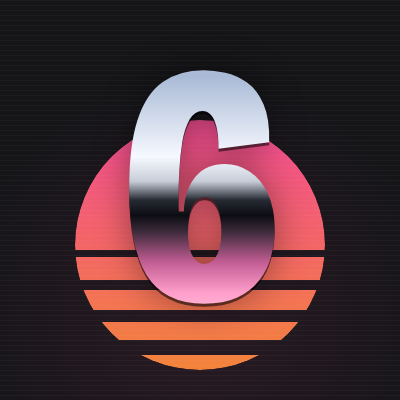
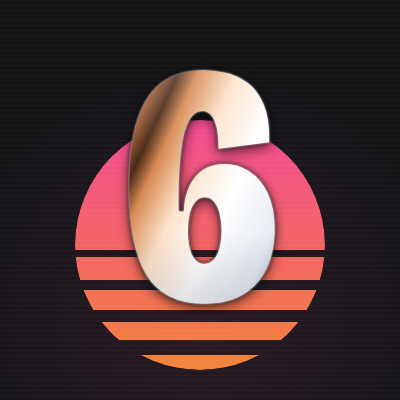
auditor: liquid chrome text (blue and copper reflections)
- Diagonal reflective streaks instead of the dark horizon band, easier to read
- Reflections drift slowly, follow scroll, and follow the pointer on hover
- Glint sweep kept; everything stops for reduced-motion users
- Brand images updated to match

Claude-Session: https://claude.ai/code/session_01UR4vkfQZzNAyaszMML9NGR

Changed region(s): [[0.3, 0.15, 0.72, 0.78]]

diff --git a/index.html b/index.html
@@ -27,12 +27,14 @@
   --pink:#ff4f9a;--orange:#ff8a3c;
   --sun:linear-gradient(100deg,#ff4f9a 0%,#ff6a6a 50%,#ff8a3c 100%);
   --chrome:linear-gradient(180deg,#ffffff 0%,#e3e5ea 28%,#9ba0ab 47%,#4a4e57 53%,#b9bdc6 68%,#f5f6f8 100%);
-  --chrome-hi:linear-gradient(180deg,#ffffff 0%,#eef3ff 12%,#a9bad6 30%,#f6f9ff 43%,#c7cdd8 47%,#262a33 50%,#0c0d12 52.5%,#3b2a3a 55%,#c25d93 60%,#ff9fcb 65%,#ffe3ef 74%,#ffffff 82%,#d9dde6 90%,#8e95a3 100%);
-  --glint:linear-gradient(105deg,transparent 40%,rgba(255,255,255,.0) 44%,rgba(255,255,255,.95) 50%,rgba(255,255,255,0) 56%,transparent 60%);
-  --cy:50%;
+  --liquid:linear-gradient(115deg,#ffffff 0%,#dfe6f1 6%,#8fa6c8 10%,#2f4466 12.5%,#9fb5d6 14%,#f4f7fb 19%,#ffffff 24%,#cfd4dc 29%,#a7623a 33%,#4a2a17 35%,#d88a52 37%,#fde4cc 41%,#ffffff 46%,#e6ebf2 52%,#7c96bf 57%,#263856 59.5%,#a9bcda 61%,#f6f9fc 66%,#ffffff 71%,#c9ced7 77%,#b8693c 81%,#52301a 83%,#e39a63 85%,#fff1e3 90%,#ffffff 100%);
+  --shade:linear-gradient(180deg,rgba(255,255,255,.30) 0%,rgba(255,255,255,0) 40%,rgba(18,22,34,0) 58%,rgba(18,22,34,.30) 100%);
+  --glint:linear-gradient(105deg,transparent 42%,rgba(255,255,255,.9) 50%,transparent 58%);
+  --cx:30%;--cy:40%;
   --pad:20px;--bar:64px;
 }
 @property --gx{syntax:"<percentage>";inherits:false;initial-value:170%}
+@property --drift{syntax:"<percentage>";inherits:false;initial-value:0%}
 *{box-sizing:border-box}
 html{-webkit-text-size-adjust:100%}
 body{margin:0;background:var(--paper);color:var(--ink);font:400 17px/1.45 "Bricolage",system-ui,-apple-system,"Segoe UI",sans-serif;padding-top:env(safe-area-inset-top)}
@@ -49,13 +51,14 @@ button{font:inherit;color:inherit;background:none;border:0;padding:0;cursor:poin
 /* ---------- frame ---------- */
 .page{position:relative;z-index:1;max-width:640px;margin:0 auto;padding:0 var(--pad) calc(var(--bar) + 40px + env(safe-area-inset-bottom))}
 .mast{display:flex;align-items:center;justify-content:space-between;gap:12px;padding:18px 0 6px}
-.chrome{background:var(--glint) var(--gx) 0/260% 100% no-repeat,var(--chrome-hi) 0 var(--cy)/100% 155% no-repeat;
-  -webkit-background-clip:text;background-clip:text;-webkit-text-fill-color:transparent;color:#e3e5ea;
-  filter:drop-shadow(0 -1px 0 rgba(255,255,255,.35)) drop-shadow(0 1.5px 0 #07080b) drop-shadow(0 0 14px rgba(255,79,154,.22));
-  transition:background-position .45s cubic-bezier(.2,.7,.2,1)}
-.chrome.glint{animation:glint .9s cubic-bezier(.3,.6,.3,1)}
+.chrome{background:var(--glint) var(--gx) 0/260% 100% no-repeat,var(--shade),var(--liquid) calc(var(--cx) + var(--drift)) var(--cy)/170% 170%;
+  -webkit-background-clip:text;background-clip:text;-webkit-text-fill-color:transparent;color:#e3e7ee;
+  filter:drop-shadow(0 0 .45px rgba(255,255,255,.9)) drop-shadow(0 0 .8px rgba(8,10,16,.95)) drop-shadow(0 2px 3px rgba(0,0,0,.55));
+  animation:drift 14s ease-in-out infinite;transition:background-position .5s cubic-bezier(.2,.7,.2,1)}
+.chrome.glint{animation:drift 14s ease-in-out infinite,glint .9s cubic-bezier(.3,.6,.3,1)}
+@keyframes drift{0%,100%{--drift:0%}50%{--drift:28%}}
 @keyframes glint{from{--gx:170%}to{--gx:-70%}}
-.mark{position:relative;display:inline-block;font-weight:800;font-stretch:75%;font-size:32px;line-height:1.05;letter-spacing:.01em;text-decoration:none;padding-bottom:9px}
+.mark{position:relative;display:inline-block;font-weight:800;font-stretch:75%;font-size:34px;line-height:1.05;letter-spacing:.01em;text-decoration:none;padding-bottom:9px}
 .mark::after{content:"";position:absolute;left:1px;right:1px;bottom:0;height:3px;border-radius:2px;background:var(--sun);box-shadow:0 0 10px rgba(255,79,154,.45)}
 .tools{display:flex;gap:6px}
 .tool{display:flex;align-items:center;gap:7px;height:38px;padding:0 10px;border:1.5px solid var(--line);border-radius:8px;font-size:14px;font-weight:600;color:var(--dim)}
@@ -732,7 +735,7 @@ body.shielded .sp:not(.open)>.spc{display:none}
   // chrome: the reflection slides as you scroll or move over it, and a glint sweeps across
   var root = document.documentElement, glintAt = 0, raf = 0, reduce = false;
   try { reduce = matchMedia('(prefers-reduced-motion: reduce)').matches; } catch (e) {}
-  function setCy(v){ root.style.setProperty('--cy', v.toFixed(1) + '%'); }
+  function setPos(x, y){ root.style.setProperty('--cx', x.toFixed(1) + '%'); if (y != null) root.style.setProperty('--cy', y.toFixed(1) + '%'); }
   function glint(force){
     var now = Date.now(); if (reduce || (!force && now - glintAt < 2500)) return; glintAt = now;
     Array.prototype.forEach.call(document.querySelectorAll('.chrome'), function(el, i){
@@ -740,26 +743,26 @@ body.shielded .sp:not(.open)>.spc{display:none}
       setTimeout(function(){ el.classList.add('glint'); }, i * 70);
     });
   }
-  document.addEventListener('animationend', function(e){ if (e.target.classList && e.target.classList.contains('chrome')) e.target.classList.remove('glint'); });
+  document.addEventListener('animationend', function(e){ if (e.animationName === 'glint' && e.target.classList) e.target.classList.remove('glint'); });
   if (!reduce) {
     window.addEventListener('scroll', function(){
       if (raf) return;
       raf = requestAnimationFrame(function(){
         raf = 0;
-        var t = (window.scrollY / 420) % 2, w = t < 1 ? t : 2 - t;   // back and forth
-        setCy(34 + w * 32);
+        var t = (window.scrollY / 600) % 2, w = t < 1 ? t : 2 - t;   // back and forth
+        setPos(10 + w * 80, 30 + w * 30);
         glint(false);
       });
     }, {passive: true});
     var mk = $('mark');
     mk.addEventListener('pointerenter', function(){ glint(true); });
     mk.addEventListener('pointermove', function(e){
-      var r = mk.getBoundingClientRect(); setCy(34 + Math.max(0, Math.min(1, (e.clientX - r.left) / r.width)) * 32);
+      var r = mk.getBoundingClientRect(); setPos(10 + Math.max(0, Math.min(1, (e.clientX - r.left) / r.width)) * 80, 20 + Math.max(0, Math.min(1, (e.clientY - r.top) / r.height)) * 50);
     });
     var cdBox = $('hero');
     cdBox.addEventListener('pointermove', function(e){
       if (!e.target.closest('.cd')) return;
-      var r = cdBox.getBoundingClientRect(); setCy(34 + Math.max(0, Math.min(1, (e.clientX - r.left) / r.width)) * 32);
+      var r = cdBox.getBoundingClientRect(); setPos(10 + Math.max(0, Math.min(1, (e.clientX - r.left) / r.width)) * 80, 20 + Math.max(0, Math.min(1, (e.clientY - r.top) / r.height)) * 50);
     });
     setTimeout(function(){ glint(true); }, 600);
   }

diff --git a/tools/template.html b/tools/template.html
@@ -26,12 +26,14 @@
   --pink:#ff4f9a;--orange:#ff8a3c;
   --sun:linear-gradient(100deg,#ff4f9a 0%,#ff6a6a 50%,#ff8a3c 100%);
   --chrome:linear-gradient(180deg,#ffffff 0%,#e3e5ea 28%,#9ba0ab 47%,#4a4e57 53%,#b9bdc6 68%,#f5f6f8 100%);
-  --chrome-hi:linear-gradient(180deg,#ffffff 0%,#eef3ff 12%,#a9bad6 30%,#f6f9ff 43%,#c7cdd8 47%,#262a33 50%,#0c0d12 52.5%,#3b2a3a 55%,#c25d93 60%,#ff9fcb 65%,#ffe3ef 74%,#ffffff 82%,#d9dde6 90%,#8e95a3 100%);
-  --glint:linear-gradient(105deg,transparent 40%,rgba(255,255,255,.0) 44%,rgba(255,255,255,.95) 50%,rgba(255,255,255,0) 56%,transparent 60%);
-  --cy:50%;
+  --liquid:linear-gradient(115deg,#ffffff 0%,#dfe6f1 6%,#8fa6c8 10%,#2f4466 12.5%,#9fb5d6 14%,#f4f7fb 19%,#ffffff 24%,#cfd4dc 29%,#a7623a 33%,#4a2a17 35%,#d88a52 37%,#fde4cc 41%,#ffffff 46%,#e6ebf2 52%,#7c96bf 57%,#263856 59.5%,#a9bcda 61%,#f6f9fc 66%,#ffffff 71%,#c9ced7 77%,#b8693c 81%,#52301a 83%,#e39a63 85%,#fff1e3 90%,#ffffff 100%);
+  --shade:linear-gradient(180deg,rgba(255,255,255,.30) 0%,rgba(255,255,255,0) 40%,rgba(18,22,34,0) 58%,rgba(18,22,34,.30) 100%);
+  --glint:linear-gradient(105deg,transparent 42%,rgba(255,255,255,.9) 50%,transparent 58%);
+  --cx:30%;--cy:40%;
   --pad:20px;--bar:64px;
 }
 @property --gx{syntax:"<percentage>";inherits:false;initial-value:170%}
+@property --drift{syntax:"<percentage>";inherits:false;initial-value:0%}
 *{box-sizing:border-box}
 html{-webkit-text-size-adjust:100%}
 body{margin:0;background:var(--paper);color:var(--ink);font:400 17px/1.45 "Bricolage",system-ui,-apple-system,"Segoe UI",sans-serif;padding-top:env(safe-area-inset-top)}
@@ -48,13 +50,14 @@ button{font:inherit;color:inherit;background:none;border:0;padding:0;cursor:poin
 /* ---------- frame ---------- */
 .page{position:relative;z-index:1;max-width:640px;margin:0 auto;padding:0 var(--pad) calc(var(--bar) + 40px + env(safe-area-inset-bottom))}
 .mast{display:flex;align-items:center;justify-content:space-between;gap:12px;padding:18px 0 6px}
-.chrome{background:var(--glint) var(--gx) 0/260% 100% no-repeat,var(--chrome-hi) 0 var(--cy)/100% 155% no-repeat;
-  -webkit-background-clip:text;background-clip:text;-webkit-text-fill-color:transparent;color:#e3e5ea;
-  filter:drop-shadow(0 -1px 0 rgba(255,255,255,.35)) drop-shadow(0 1.5px 0 #07080b) drop-shadow(0 0 14px rgba(255,79,154,.22));
-  transition:background-position .45s cubic-bezier(.2,.7,.2,1)}
-.chrome.glint{animation:glint .9s cubic-bezier(.3,.6,.3,1)}
+.chrome{background:var(--glint) var(--gx) 0/260% 100% no-repeat,var(--shade),var(--liquid) calc(var(--cx) + var(--drift)) var(--cy)/170% 170%;
+  -webkit-background-clip:text;background-clip:text;-webkit-text-fill-color:transparent;color:#e3e7ee;
+  filter:drop-shadow(0 0 .45px rgba(255,255,255,.9)) drop-shadow(0 0 .8px rgba(8,10,16,.95)) drop-shadow(0 2px 3px rgba(0,0,0,.55));
+  animation:drift 14s ease-in-out infinite;transition:background-position .5s cubic-bezier(.2,.7,.2,1)}
+.chrome.glint{animation:drift 14s ease-in-out infinite,glint .9s cubic-bezier(.3,.6,.3,1)}
+@keyframes drift{0%,100%{--drift:0%}50%{--drift:28%}}
 @keyframes glint{from{--gx:170%}to{--gx:-70%}}
-.mark{position:relative;display:inline-block;font-weight:800;font-stretch:75%;font-size:32px;line-height:1.05;letter-spacing:.01em;text-decoration:none;padding-bottom:9px}
+.mark{position:relative;display:inline-block;font-weight:800;font-stretch:75%;font-size:34px;line-height:1.05;letter-spacing:.01em;text-decoration:none;padding-bottom:9px}
 .mark::after{content:"";position:absolute;left:1px;right:1px;bottom:0;height:3px;border-radius:2px;background:var(--sun);box-shadow:0 0 10px rgba(255,79,154,.45)}
 .tools{display:flex;gap:6px}
 .tool{display:flex;align-items:center;gap:7px;height:38px;padding:0 10px;border:1.5px solid var(--line);border-radius:8px;font-size:14px;font-weight:600;color:var(--dim)}
@@ -731,7 +734,7 @@ body.shielded .sp:not(.open)>.spc{display:none}
   // chrome: the reflection slides as you scroll or move over it, and a glint sweeps across
   var root = document.documentElement, glintAt = 0, raf = 0, reduce = false;
   try { reduce = matchMedia('(prefers-reduced-motion: reduce)').matches; } catch (e) {}
-  function setCy(v){ root.style.setProperty('--cy', v.toFixed(1) + '%'); }
+  function setPos(x, y){ root.style.setProperty('--cx', x.toFixed(1) + '%'); if (y != null) root.style.setProperty('--cy', y.toFixed(1) + '%'); }
   function glint(force){
     var now = Date.now(); if (reduce || (!force && now - glintAt < 2500)) return; glintAt = now;
     Array.prototype.forEach.call(document.querySelectorAll('.chrome'), function(el, i){
@@ -739,26 +742,26 @@ body.shielded .sp:not(.open)>.spc{display:none}
       setTimeout(function(){ el.classList.add('glint'); }, i * 70);
     });
   }
-  document.addEventListener('animationend', function(e){ if (e.target.classList && e.target.classList.contains('chrome')) e.target.classList.remove('glint'); });
+  document.addEventListener('animationend', function(e){ if (e.animationName === 'glint' && e.target.classList) e.target.classList.remove('glint'); });
   if (!reduce) {
     window.addEventListener('scroll', function(){
       if (raf) return;
       raf = requestAnimationFrame(function(){
         raf = 0;
-        var t = (window.scrollY / 420) % 2, w = t < 1 ? t : 2 - t;   // back and forth
-        setCy(34 + w * 32);
+        var t = (window.scrollY / 600) % 2, w = t < 1 ? t : 2 - t;   // back and forth
+        setPos(10 + w * 80, 30 + w * 30);
         glint(false);
       });
     }, {passive: true});
     var mk = $('mark');
     mk.addEventListener('pointerenter', function(){ glint(true); });
     mk.addEventListener('pointermove', function(e){
-      var r = mk.getBoundingClientRect(); setCy(34 + Math.max(0, Math.min(1, (e.clientX - r.left) / r.width)) * 32);
+      var r = mk.getBoundingClientRect(); setPos(10 + Math.max(0, Math.min(1, (e.clientX - r.left) / r.width)) * 80, 20 + Math.max(0, Math.min(1, (e.clientY - r.top) / r.height)) * 50);
     });
     var cdBox = $('hero');
     cdBox.addEventListener('pointermove', function(e){
       if (!e.target.closest('.cd')) return;
-      var r = cdBox.getBoundingClientRect(); setCy(34 + Math.max(0, Math.min(1, (e.clientX - r.left) / r.width)) * 32);
+      var r = cdBox.getBoundingClientRect(); setPos(10 + Math.max(0, Math.min(1, (e.clientX - r.left) / r.width)) * 80, 20 + Math.max(0, Math.min(1, (e.clientY - r.top) / r.height)) * 50);
     });
     setTimeout(function(){ glint(true); }, 600);
   }
